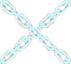
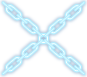
Update B Move assets

Changed region(s): [[0.0, 0.0, 1.0, 1.0]]

diff --git a/js/syncgrids.js b/js/syncgrids.js
@@ -11833,4 +11833,4 @@ export const SYNCGRIDS = [
 	PROFESSOR_OAK_MEW
 ]
 
-export var CURRENT_SYNCGRID = SEPTEMBER2022.CYNTHIA_LUCARIO;
+export var CURRENT_SYNCGRID = SEPTEMBER2022.RED_PIKACHU;

diff --git a/js/syncpairs.js b/js/syncpairs.js
@@ -2748,4 +2748,4 @@ export const SYNCPAIRS = [
 	PROFESSOR_OAK_MEW
 ];
 
-export var CURRENT_SYNCPAIR = SEPTEMBER2022.CYNTHIA_LUCARIO;
+export var CURRENT_SYNCPAIR = SEPTEMBER2022.RED_PIKACHU;

diff --git a/css/focus.css b/css/focus.css
@@ -93,7 +93,6 @@ ELEMENT FOCUS WHEN CLICKED
 
 #elementFocus .b_move img:nth-child(2) {
 	height: 100%;
-	filter: opacity(95%);
 	margin: auto;
 	display: block;
 }

diff --git a/css/main1.css b/css/main1.css
@@ -478,8 +478,9 @@ MOVES
 }
 
 .b_move {
-	height: 102%;
+	height: 118%;
 	margin: auto;
+	margin-top: -1%;
 	overflow: hidden;
 }
 

diff --git a/css/main2.css b/css/main2.css
@@ -495,7 +495,6 @@ MOVES
 
 .b_move img:nth-child(2) {
 	height: 100%;
-	filter: opacity(95%);
 	display: block;
 	float: right;
 }
